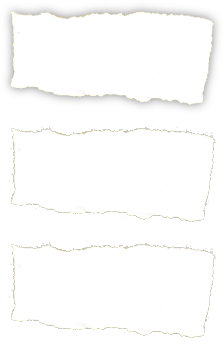
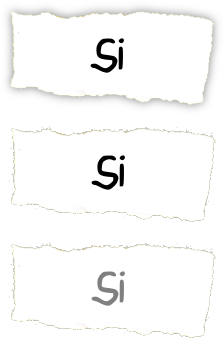
Agregado texto a botones

Changed region(s): [[0.4062, 0.0862, 0.5625, 0.2299], [0.4062, 0.7759, 0.5625, 0.8908], [0.4062, 0.431, 0.5625, 0.546]]

diff --git a/recursos/scripts/menu.js b/recursos/scripts/menu.js
@@ -48,6 +48,6 @@ Juego.Menu.prototype = {
 	},
 	comenzarJuego: function (pointer) { // Se ejecuta al presionar boton correspondiente
 		this.musica.stop(); // Parar la musica
-		this.game.state.start('Final'); // Ir a la escena 1
+		this.game.state.start('Escena1'); // Ir a la escena 1
 	}
 }; 
